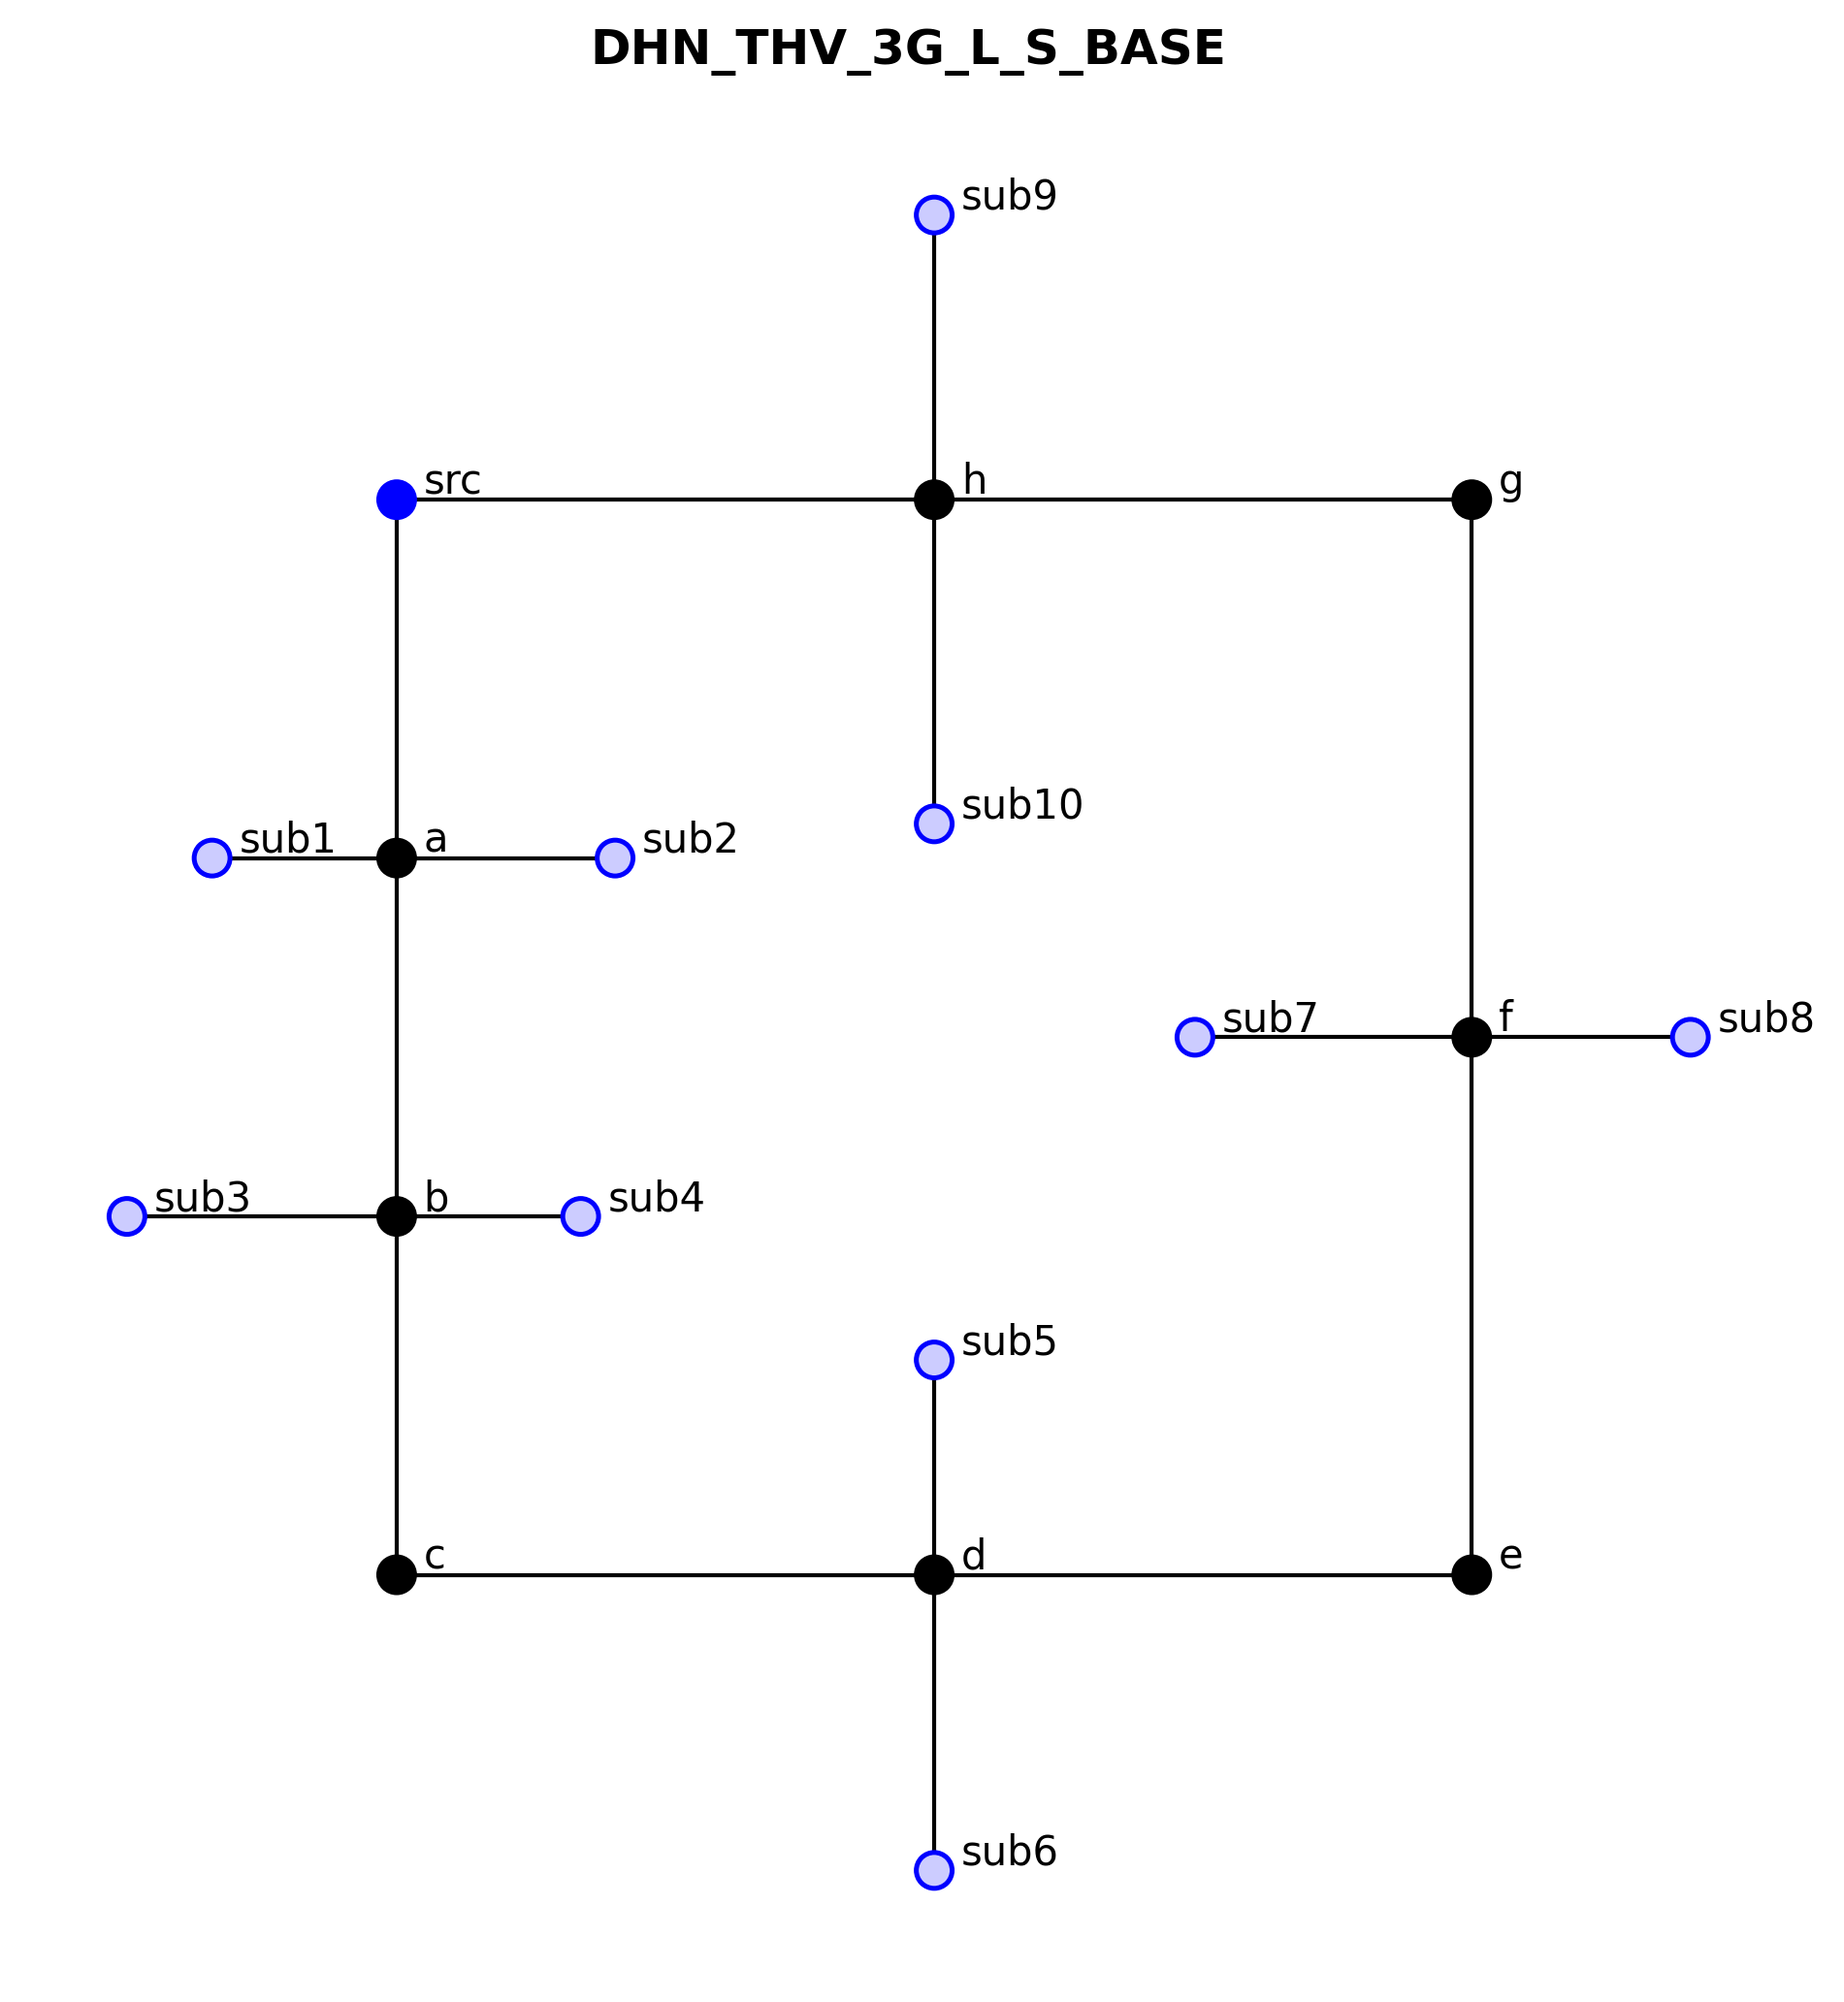
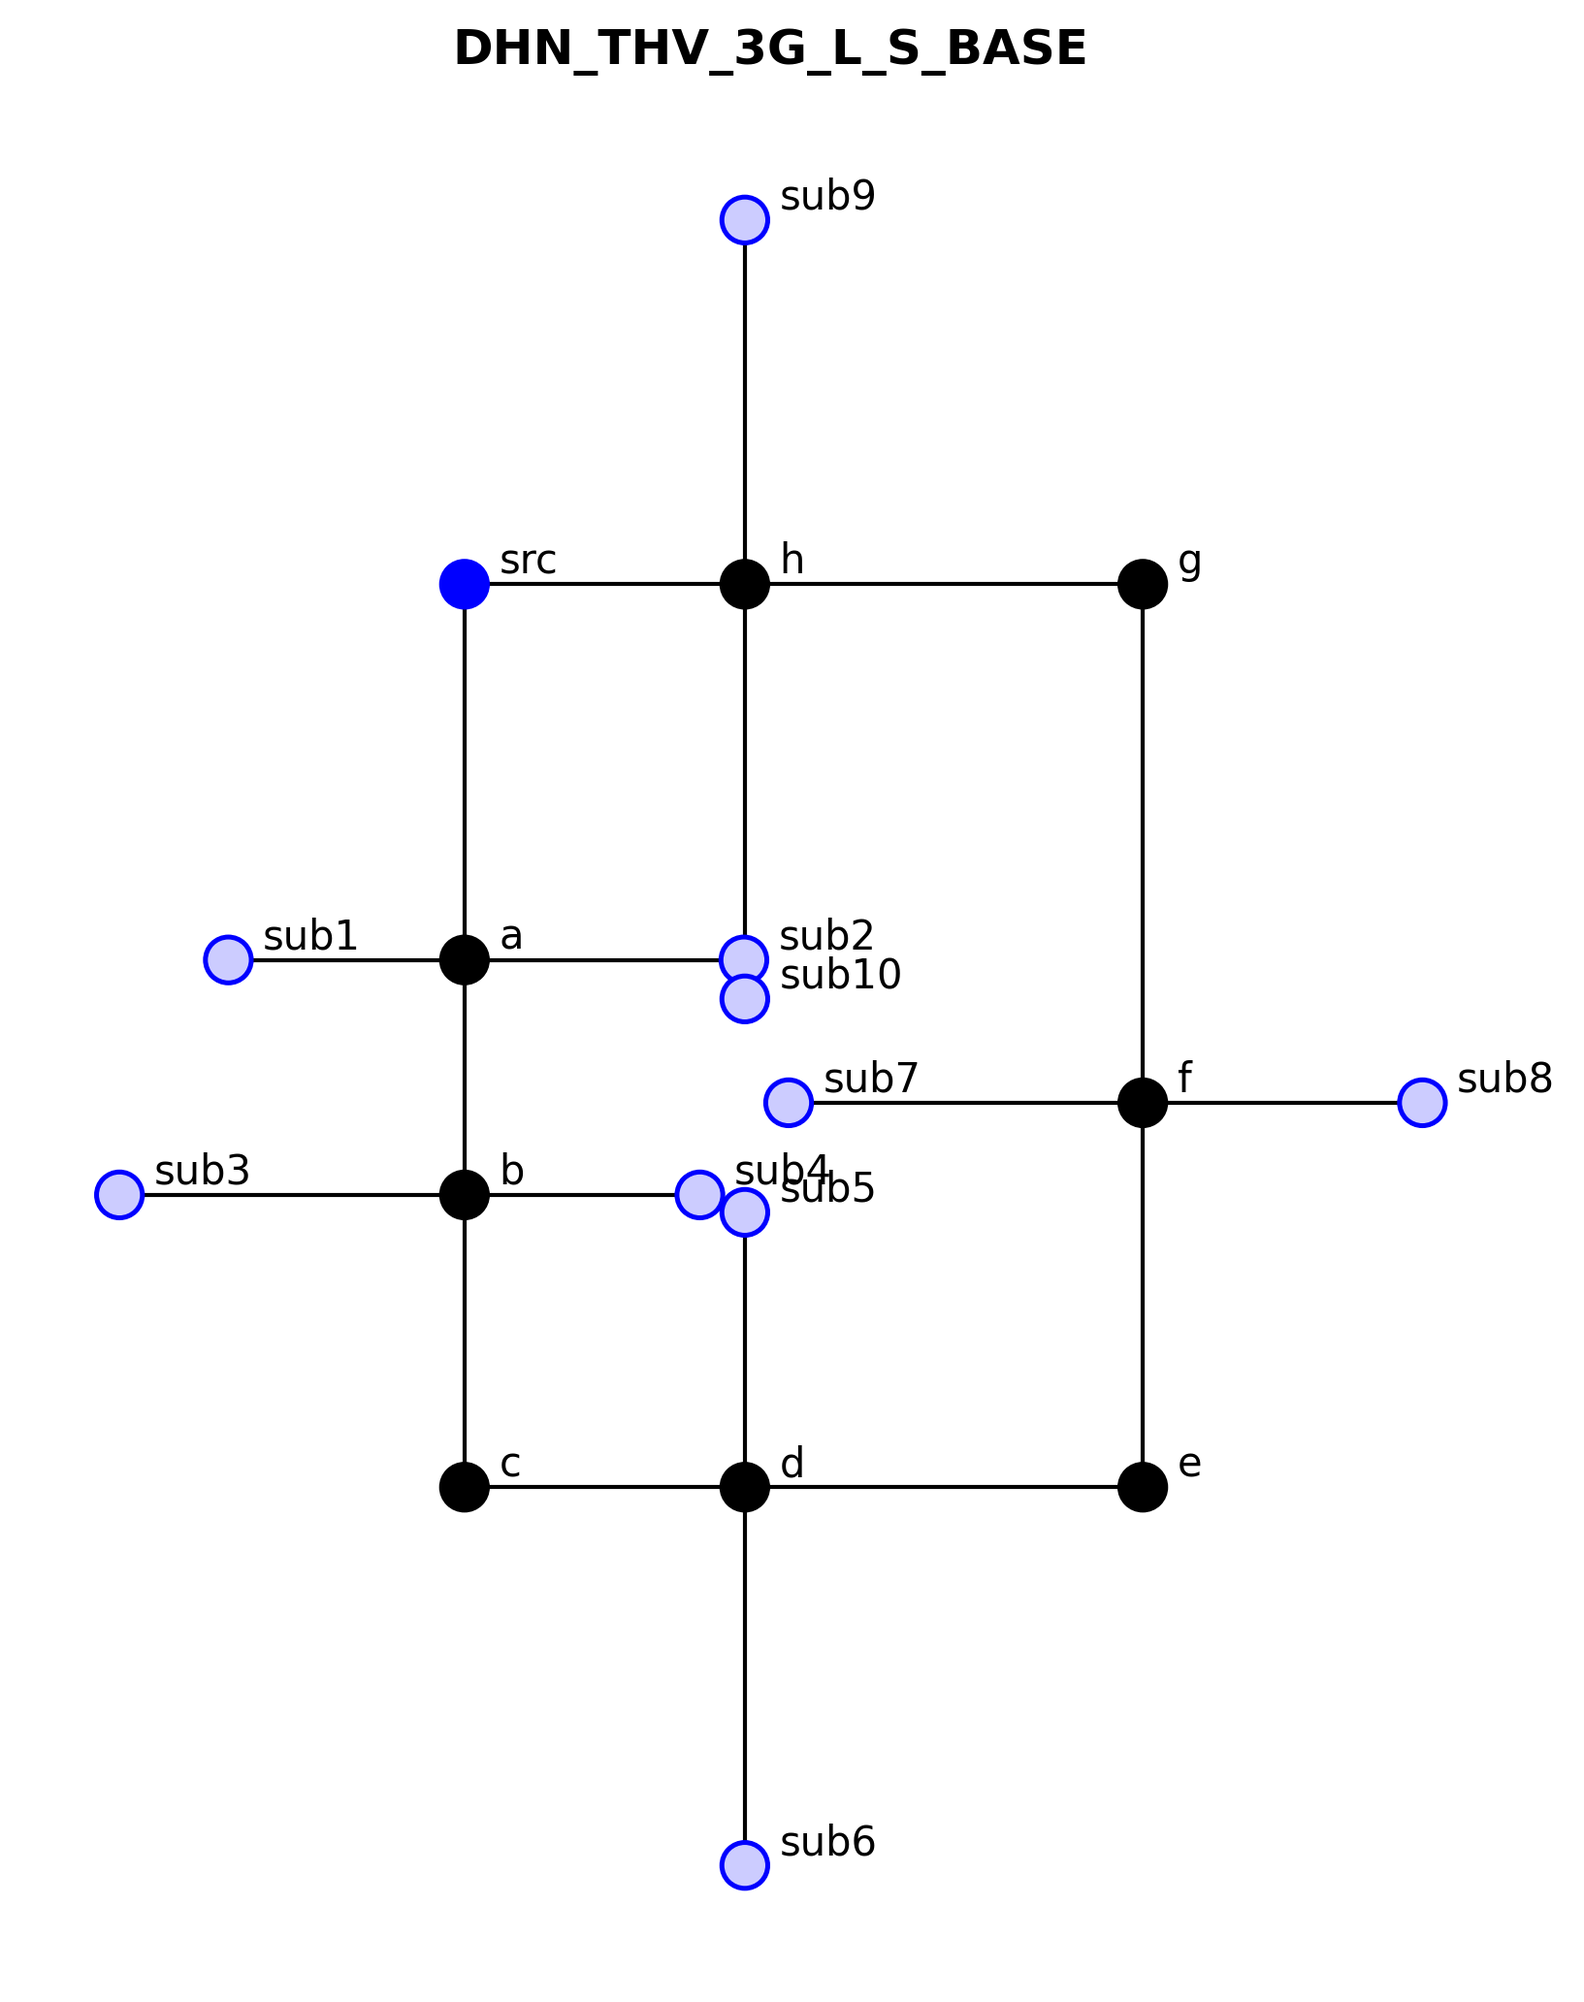
Archetypes implementation

diff --git a/dhn_benchmark/networks/DHN_THV_3G_L_S_BASE.py b/dhn_benchmark/networks/DHN_THV_3G_L_S_BASE.py
@@ -89,33 +89,43 @@ for u, v in EDGE_LIST:
 
 # ---------------------------------------------------------------------------
 # SECTION 2 — NODE COORDINATES
+# Derived from pipe lengths so that euclidean(u,v) == PIPE_L[(u,v)].
 # ---------------------------------------------------------------------------
+_ay = PIPE_L[("src", "a")]
+_by = _ay + PIPE_L[("a", "b")]
+_cy = _by + PIPE_L[("b", "c")]
+
+_dx = PIPE_L[("c", "d")]
+_ex = _dx + PIPE_L[("d", "e")]
+
+_fy = _cy - PIPE_L[("e", "f")]
+
 NODES = [
     # id        type            x                                   y
     ("src",    "source",        0,                                  0),
-    ("a",      "junction",      0,                                  200),
-    ("b",      "junction",      0,                                  400),
-    ("c",      "junction",      0,                                  600),
-    ("d",      "junction",      300,                                600),
-    ("e",      "junction",      600,                                600),
-    ("f",      "junction",      600,                                300),
-    ("g",      "junction",      600,                                0),
-    ("h",      "junction",      300,                                0),
+    ("a",      "junction",      0,                                  _ay),
+    ("b",      "junction",      0,                                  _by),
+    ("c",      "junction",      0,                                  _cy),
+    ("d",      "junction",      _dx,                                _cy),
+    ("e",      "junction",      _ex,                                _cy),
+    ("f",      "junction",      _ex,                                _fy),
+    ("g",      "junction",      _ex,                                0),
+    ("h",      "junction",      _dx,                                0),
     # substations of a
-    ("sub1",   "substation",    0 - PIPE_L[("a", "sub1")],          200),
-    ("sub2",   "substation",    0 + PIPE_L[("a", "sub2")],          200),
+    ("sub1",   "substation",    0 - PIPE_L[("a", "sub1")],          _ay),
+    ("sub2",   "substation",    0 + PIPE_L[("a", "sub2")],          _ay),
     # substations of b
-    ("sub3",   "substation",    0 - PIPE_L[("b", "sub3")],          400),
-    ("sub4",   "substation",    0 + PIPE_L[("b", "sub4")],          400),
+    ("sub3",   "substation",    0 - PIPE_L[("b", "sub3")],          _by),
+    ("sub4",   "substation",    0 + PIPE_L[("b", "sub4")],          _by),
     # substations of d
-    ("sub5",   "substation",    300,                                600 - PIPE_L[("d", "sub5")]),
-    ("sub6",   "substation",    300,                                600 + PIPE_L[("d", "sub6")]),
+    ("sub5",   "substation",    _dx,                                _cy - PIPE_L[("d", "sub5")]),
+    ("sub6",   "substation",    _dx,                                _cy + PIPE_L[("d", "sub6")]),
     # substations of f
-    ("sub7",   "substation",    600 - PIPE_L[("f", "sub7")],        300 ),
-    ("sub8",   "substation",    600 + PIPE_L[("f", "sub8")],        300),
+    ("sub7",   "substation",    _ex - PIPE_L[("f", "sub7")],        _fy ),
+    ("sub8",   "substation",    _ex + PIPE_L[("f", "sub8")],        _fy),
     # substations of h
-    ("sub9",   "substation",   300,                                 0 - PIPE_L[("h", "sub9")]),
-    ("sub10",  "substation",   300,                                 0 + PIPE_L[("h", "sub10")]),
+    ("sub9",   "substation",   _dx,                                 0 - PIPE_L[("h", "sub9")]),
+    ("sub10",  "substation",   _dx,                                 0 + PIPE_L[("h", "sub10")]),
 ]
 
 EDGES = EDGE_LIST
@@ -213,19 +223,11 @@ print(f"\n{'pipe_id':<14} {'from':<8} {'to':<10} "
 print("-" * 75)
 
 for u, v in EDGES:
-    pid  = f"{u}_{v}"
-    Lp   = PIPE_L[(u, v)]
 
-    # Load assignment:
-    # - ring pipes carry approx half the total load (flow splits at src)
-    # - radial branches carry 1 substation load
-    # - src→sub branches carry 1 substation load
-    if (u, v) in [("src","a"), ("src","h"), ("h","src")]:
-        Q = round(Q_total / 2, 1)
-    elif (u, v) in [("a","c"), ("c","d"), ("d","b")]:
-        Q = round(Q_total / 2, 1)
-    else:
-        Q = round(Q_PEAK_W * HEAT_LOSS_FACTOR, 1)
+    pid = f"{u}_{v}"
+    Lp  = PIPE_L[(u, v)]
+
+    Q = round(Q_PEAK_W * HEAT_LOSS_FACTOR, 1)
 
     dn, di, do, dc, s = select_dn(Q)
 
@@ -276,7 +278,7 @@ print(f"\nExporting to: {OUT_DIR}")
 with open(os.path.join(OUT_DIR, "nodes.csv"), "w", newline="") as f:
     w = csv.writer(f)
     w.writerow([
-        "node_id", "node_type", "x_m", "y_m", "circuit",
+        "node_id", "node_type", "x", "y", "circuit",
         "Q_peak_W", "p_pump_set_bar",
         "T_supply_set_degC", "delta_T_nom_K",
     ])

diff --git a/dhn_benchmark/networks/DHN_THV_3G_R_S_BASE.py b/dhn_benchmark/networks/DHN_THV_3G_R_S_BASE.py
@@ -60,7 +60,7 @@ from dhn_benchmark.plotting import plot_topology
 
 # ---------------------------------------------------------------------------
 # SECTION 1 — PIPE LENGTHS
-# Sampled from U[100, 200] m with fixed seed (Rule 2).
+# Sampled from U[100, 200] m with fixed seed.
 # ---------------------------------------------------------------------------
 SEED = 42
 random.seed(SEED)
@@ -89,21 +89,6 @@ for u, v in EDGE_LIST:
 # ---------------------------------------------------------------------------
 # SECTION 2 — NODE COORDINATES
 # Derived from pipe lengths so that euclidean(u,v) == PIPE_L[(u,v)].
-# Layout rules (all edges horizontal or vertical):
-#   src → a   : vertical   downward
-#   src → b   : horizontal rightward
-#   a   → c   : vertical   downward
-#   b   → d   : horizontal rightward
-#   a   → sub1: horizontal leftward
-#   a   → sub2: horizontal rightward
-#   b   → sub3: vertical   upward
-#   b   → sub4: vertical   downward
-#   c   → sub5: horizontal leftward
-#   c   → sub6: horizontal rightward
-#   c   → sub7: vertical   downward
-#   d   → sub8: vertical   downward
-#   d   → sub9: vertical   upward
-#   d   → sub10:horizontal rightward
 # ---------------------------------------------------------------------------
 _ay = PIPE_L[("src", "a")]
 _bx = PIPE_L[("src", "b")]
@@ -300,7 +285,7 @@ print(f"\nExporting to: {OUT_DIR}")
 with open(os.path.join(OUT_DIR, "nodes.csv"), "w", newline="") as f:
     w = csv.writer(f)
     w.writerow([
-        "node_id", "node_type", "x_m", "y_m", "circuit",
+        "node_id", "node_type", "x", "y", "circuit",
         "Q_peak_W", "p_pump_set_bar",
         "T_supply_set_degC", "delta_T_nom_K",
     ])
